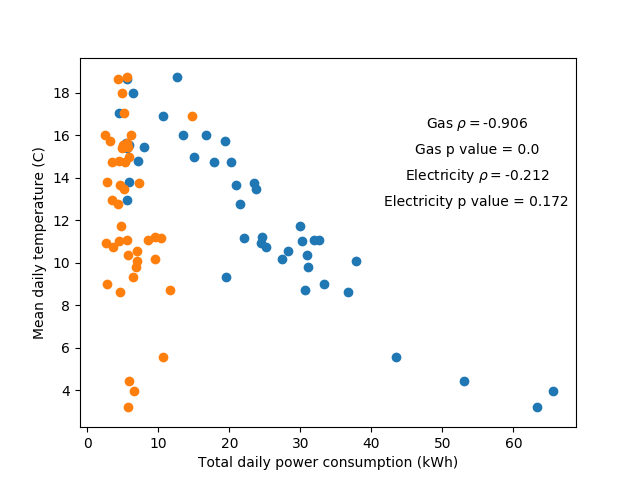
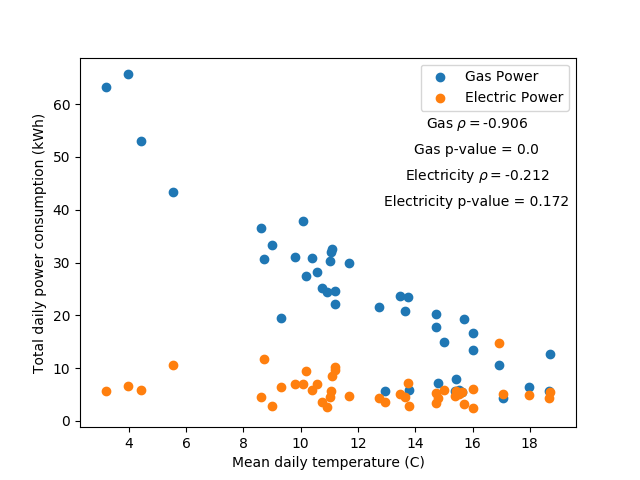
Edited correlation figure.

diff --git a/py/analyse_energy_data.py b/py/analyse_energy_data.py
@@ -1,5 +1,8 @@
 import os
-execfile(os.path.join(os.environ['HOME'], '.pythonrc'))
+try:
+    execfile(os.path.join(os.environ['HOME'], '.pythonrc'))
+except Exception as e:
+    print(e)
 import numpy as np
 import pandas as pd
 import datetime as dt
@@ -54,14 +57,15 @@ def gasTempCorrelationPlot(daily_frame):
     daily_temp = daily_frame['temperature', 'mean']
     gas_p_corr_coeff, gas_p_value = pearsonr(daily_gas, daily_temp)
     elec_p_corr_coeff, elec_p_value = pearsonr(daily_elec, daily_temp)
-    fig = plt.scatter(daily_gas, daily_temp)
-    plt.scatter(daily_elec, daily_temp)
-    plt.xlabel('Total daily power consumption (kWh)')
-    plt.ylabel('Mean daily temperature (C)')
+    fig = plt.scatter(daily_temp, daily_gas, label='Gas Power')
+    plt.scatter(daily_temp, daily_elec, label='Electric Power')
+    plt.ylabel('Total daily power consumption (kWh)')
+    plt.xlabel('Mean daily temperature (C)')
     plt.text(0.8, 0.82, r'Gas $\rho = $' + str(round(gas_p_corr_coeff, 3)), ha='center', va='center', transform=fig.axes.transAxes)
-    plt.text(0.8, 0.75, r'Gas p value = ' + str(round(gas_p_value, 3)), ha='center', va='center', transform=fig.axes.transAxes)
+    plt.text(0.8, 0.75, r'Gas p-value = ' + str(round(gas_p_value, 3)), ha='center', va='center', transform=fig.axes.transAxes)
     plt.text(0.8, 0.68, r'Electricity $\rho = $' + str(round(elec_p_corr_coeff, 3)), ha='center', va='center', transform=fig.axes.transAxes)
-    plt.text(0.8, 0.61, r'Electricity p value = ' + str(round(elec_p_value, 3)), ha='center', va='center', transform=fig.axes.transAxes)
+    plt.text(0.8, 0.61, r'Electricity p-value = ' + str(round(elec_p_value, 3)), ha='center', va='center', transform=fig.axes.transAxes)
+    plt.legend()
 
 proj_dir = os.path.join(os.environ['HOME'], 'Energy/')
 csv_dir = os.path.join(proj_dir, 'csv/')
